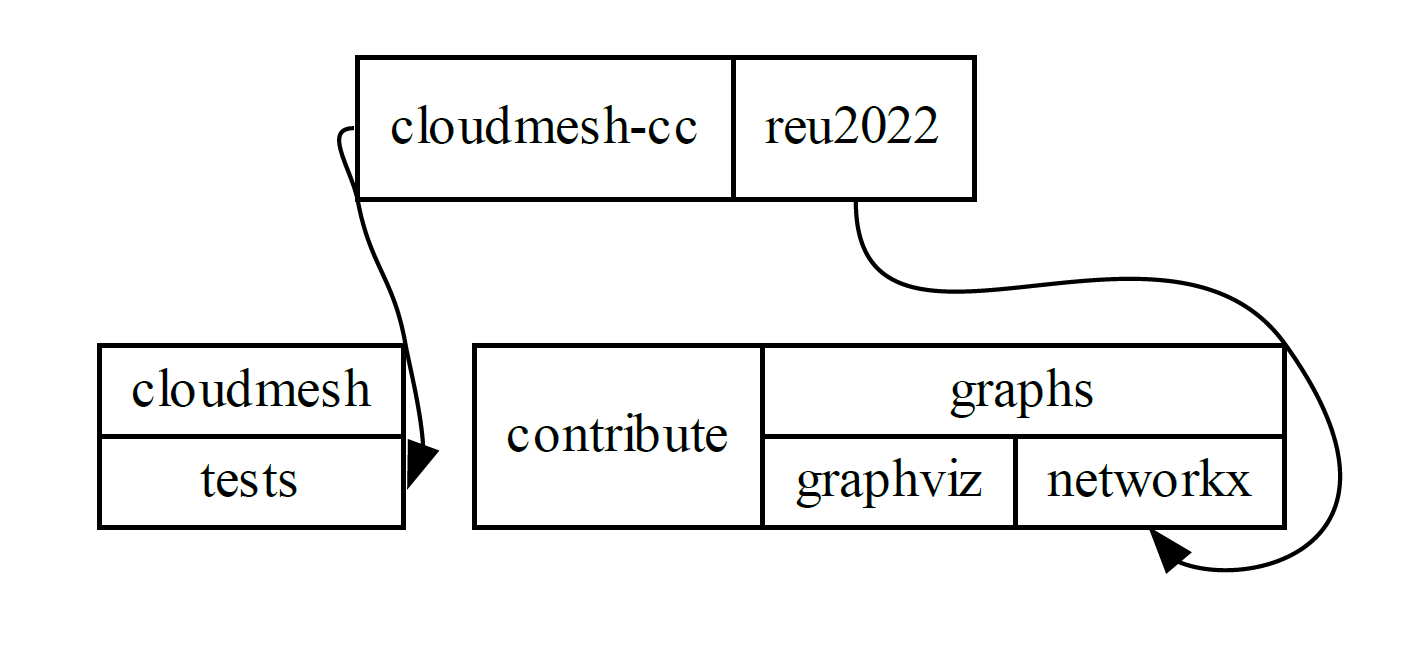
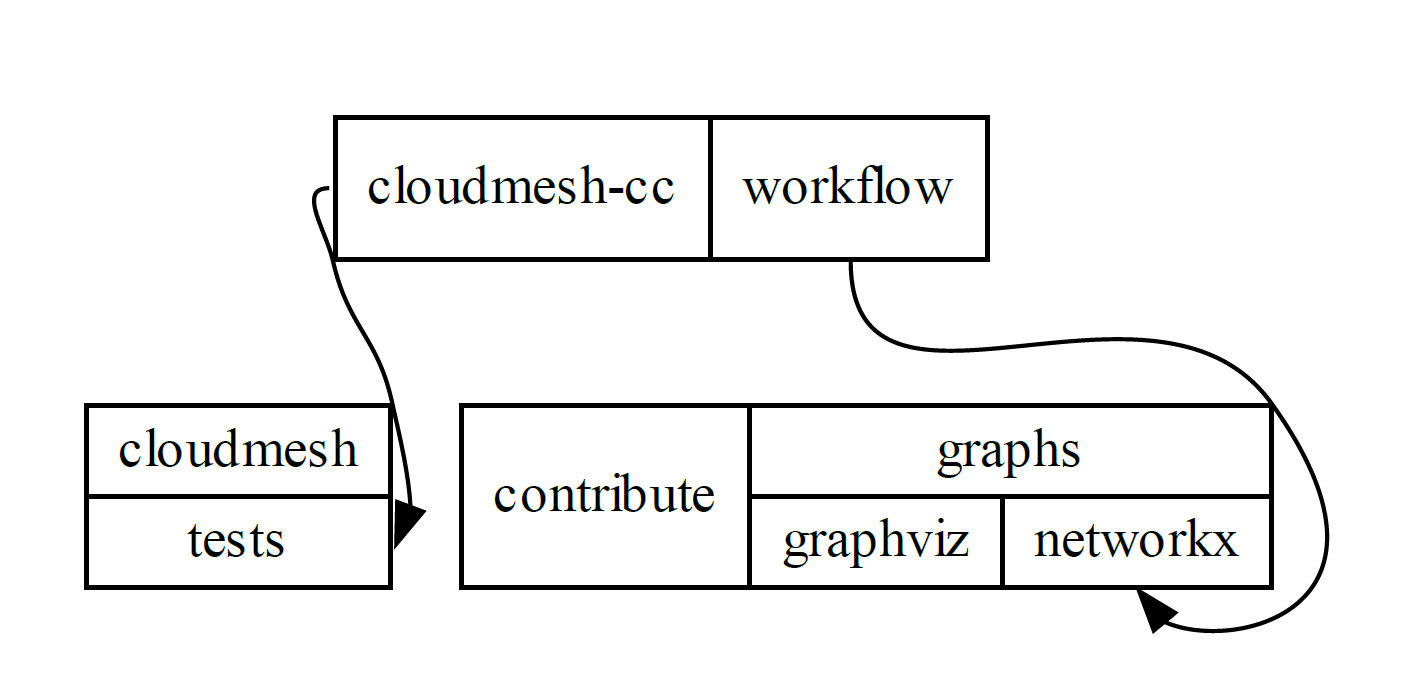
Modified structure-graphviz.py

Changed region(s): [[0.0311, 0.0618, 0.9626, 0.9274], [0.7763, 0.4019, 0.8073, 0.4328]]

diff --git a/project/graphs/graphs-graphviz/examples/structure-graphviz.py b/project/graphs/graphs-graphviz/examples/structure-graphviz.py
@@ -3,7 +3,7 @@ import graphviz
 s = graphviz.Digraph('files in directories', filename='structure-graphviz.gv')
 s.node_attr={'shape' : 'record'}
 
-s.node('s1', '<d1> cloudmesh-cc | <d2> reu2022')
+s.node('s1', '<d1> cloudmesh-cc | <d2> workflow')
 s.node('s2', '{<d1> cloudmesh | <d2> tests}')
 s.node('s3', '<d1> contribute | {<d2> graphs |{<d3> graphviz | <d4> networkx}}')
 

diff --git a/project/graphs/graphs-graphviz/examples/subgraph-graphviz.py b/project/graphs/graphs-graphviz/examples/subgraph-graphviz.py
@@ -31,3 +31,4 @@ g.node('start', shape='square')
 g.node('end', shape='square')
 
 g.view()
+

diff --git a/project/graphs/graphs-graphviz/graphviz.md b/project/graphs/graphs-graphviz/graphviz.md
@@ -133,7 +133,7 @@ import graphviz
 s = graphviz.Digraph('files in directories', filename='structure-graphviz.gv')
 s.node_attr={'shape' : 'record'}
 
-s.node('s1', '<d1> cloudmesh-cc | <d2> reu2022')
+s.node('s1', '<d1> cloudmesh-cc | <d2> workflow')
 s.node('s2', '{<d1> cloudmesh | <d2> tests}')
 s.node('s3', '<d1> contribute | {<d2> graphs |{<d3> graphviz | <d4> networkx}}')
 
